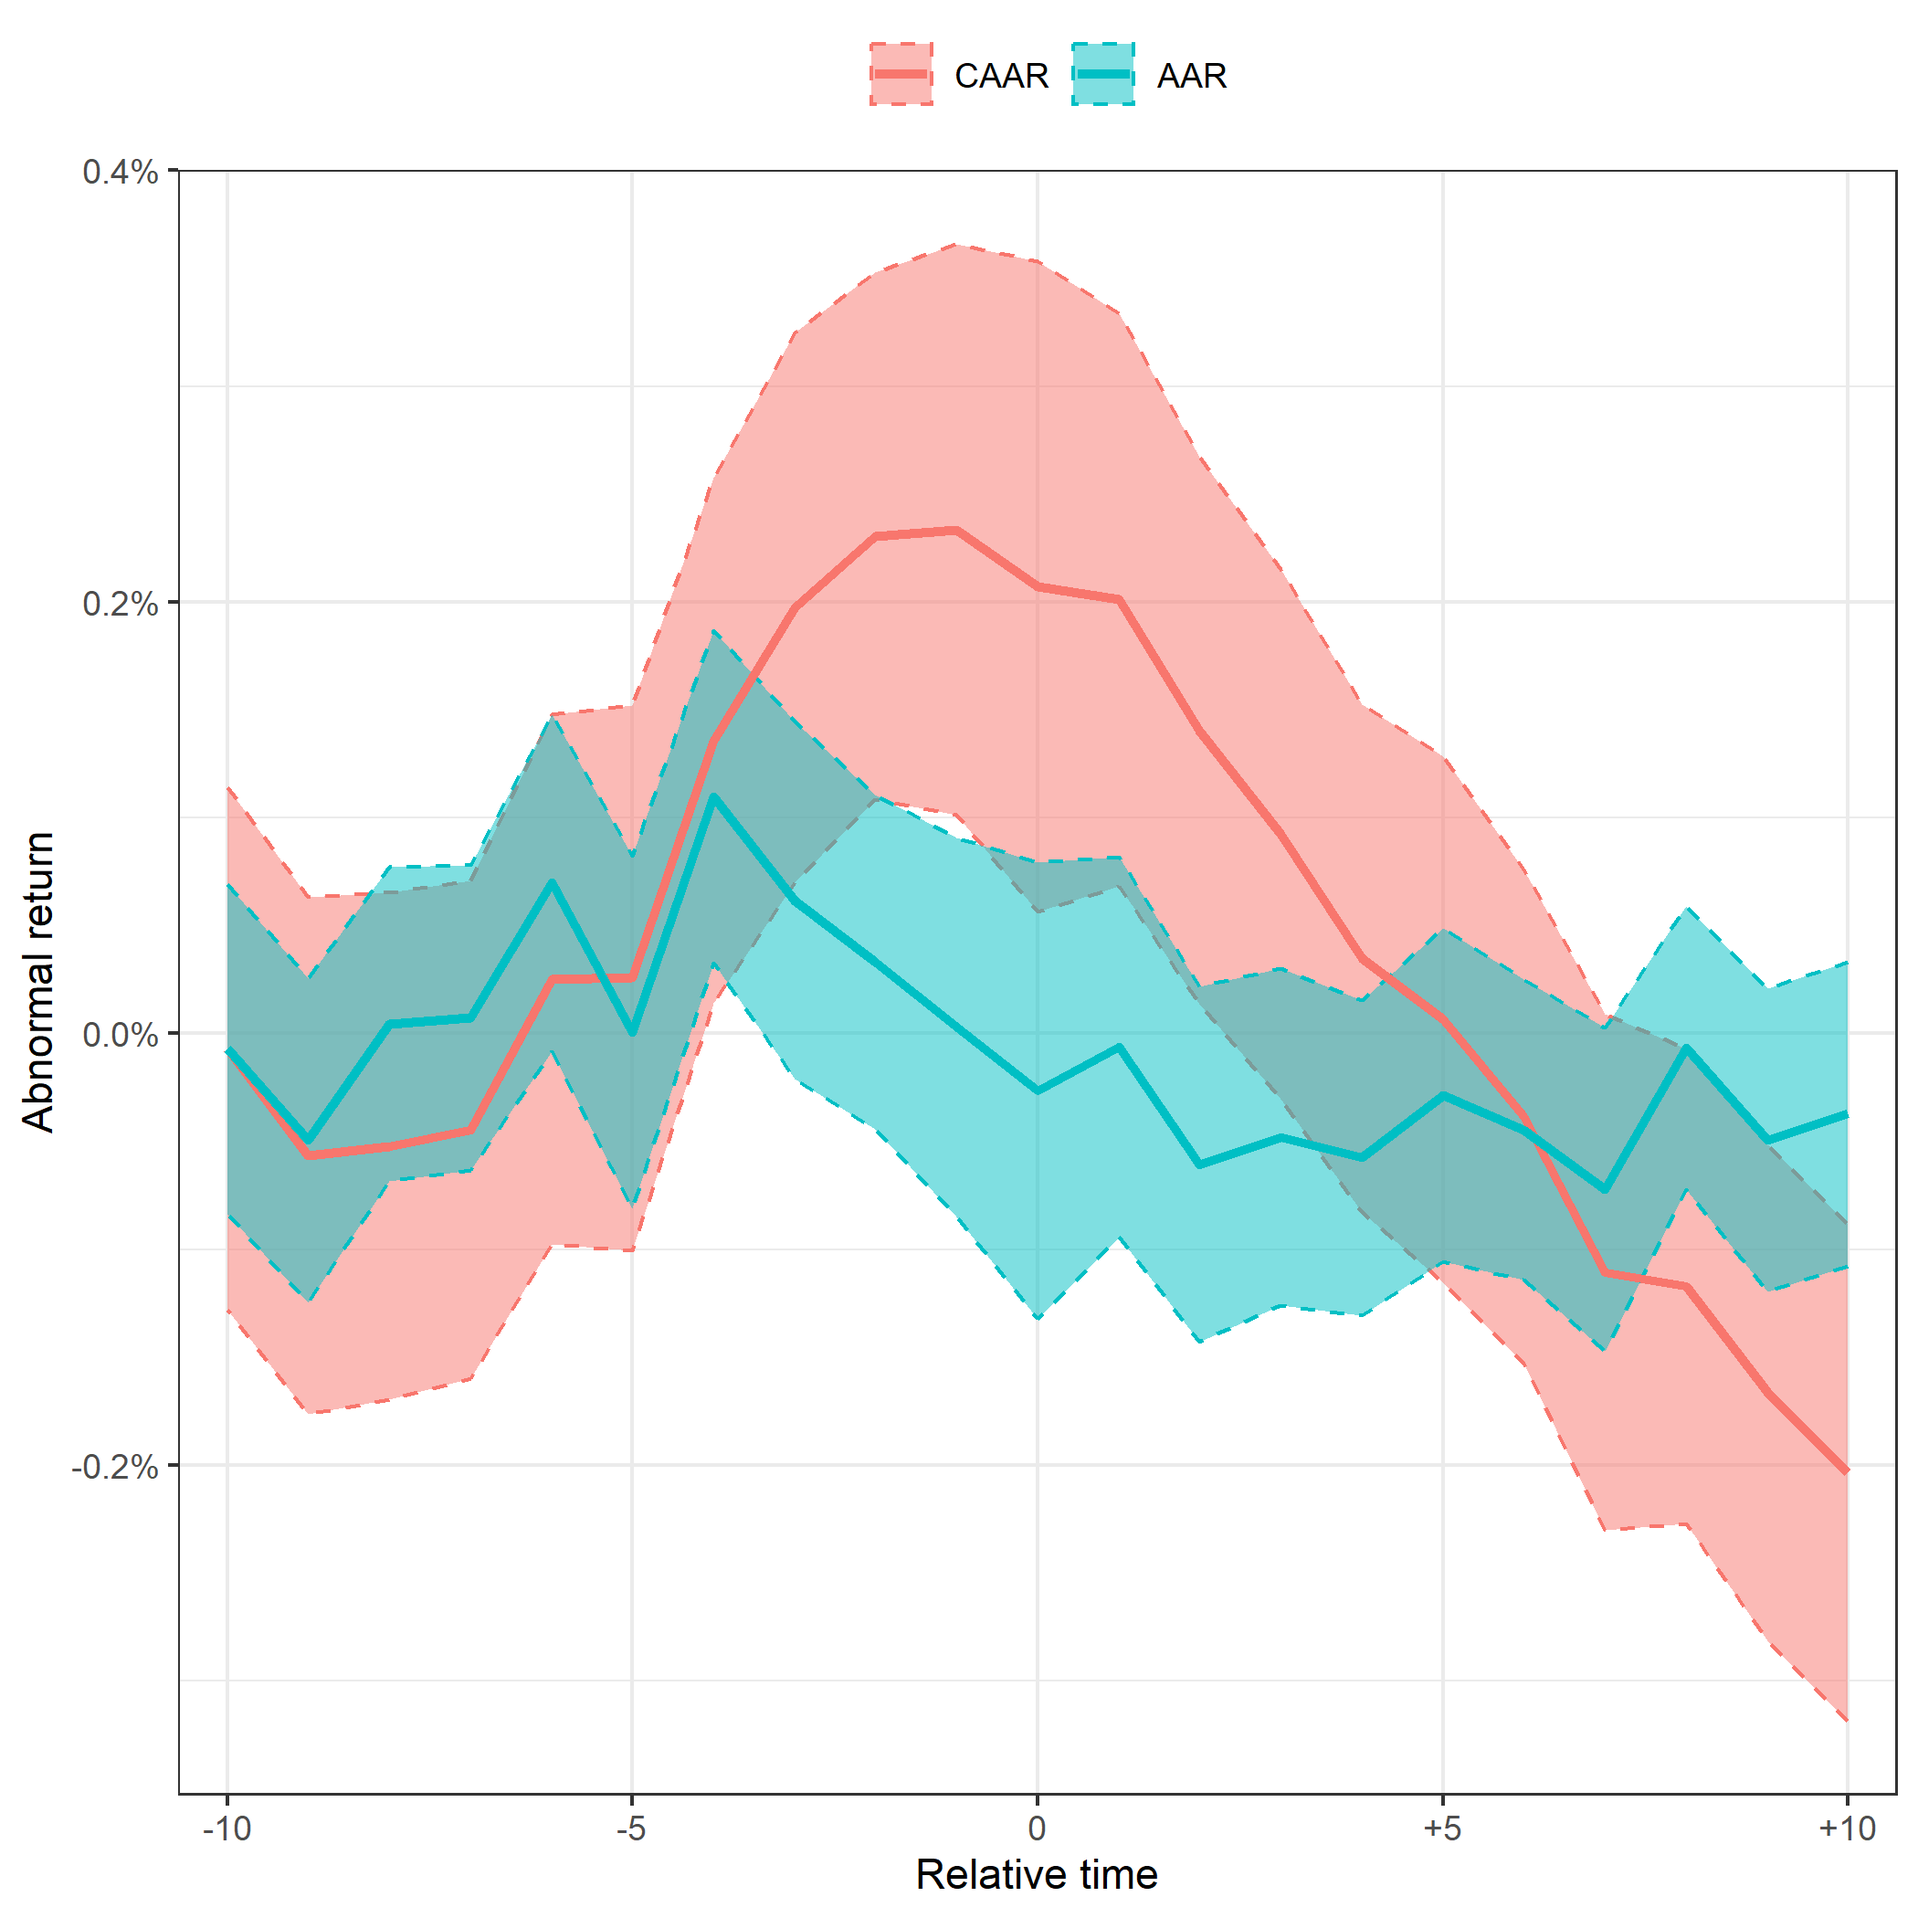
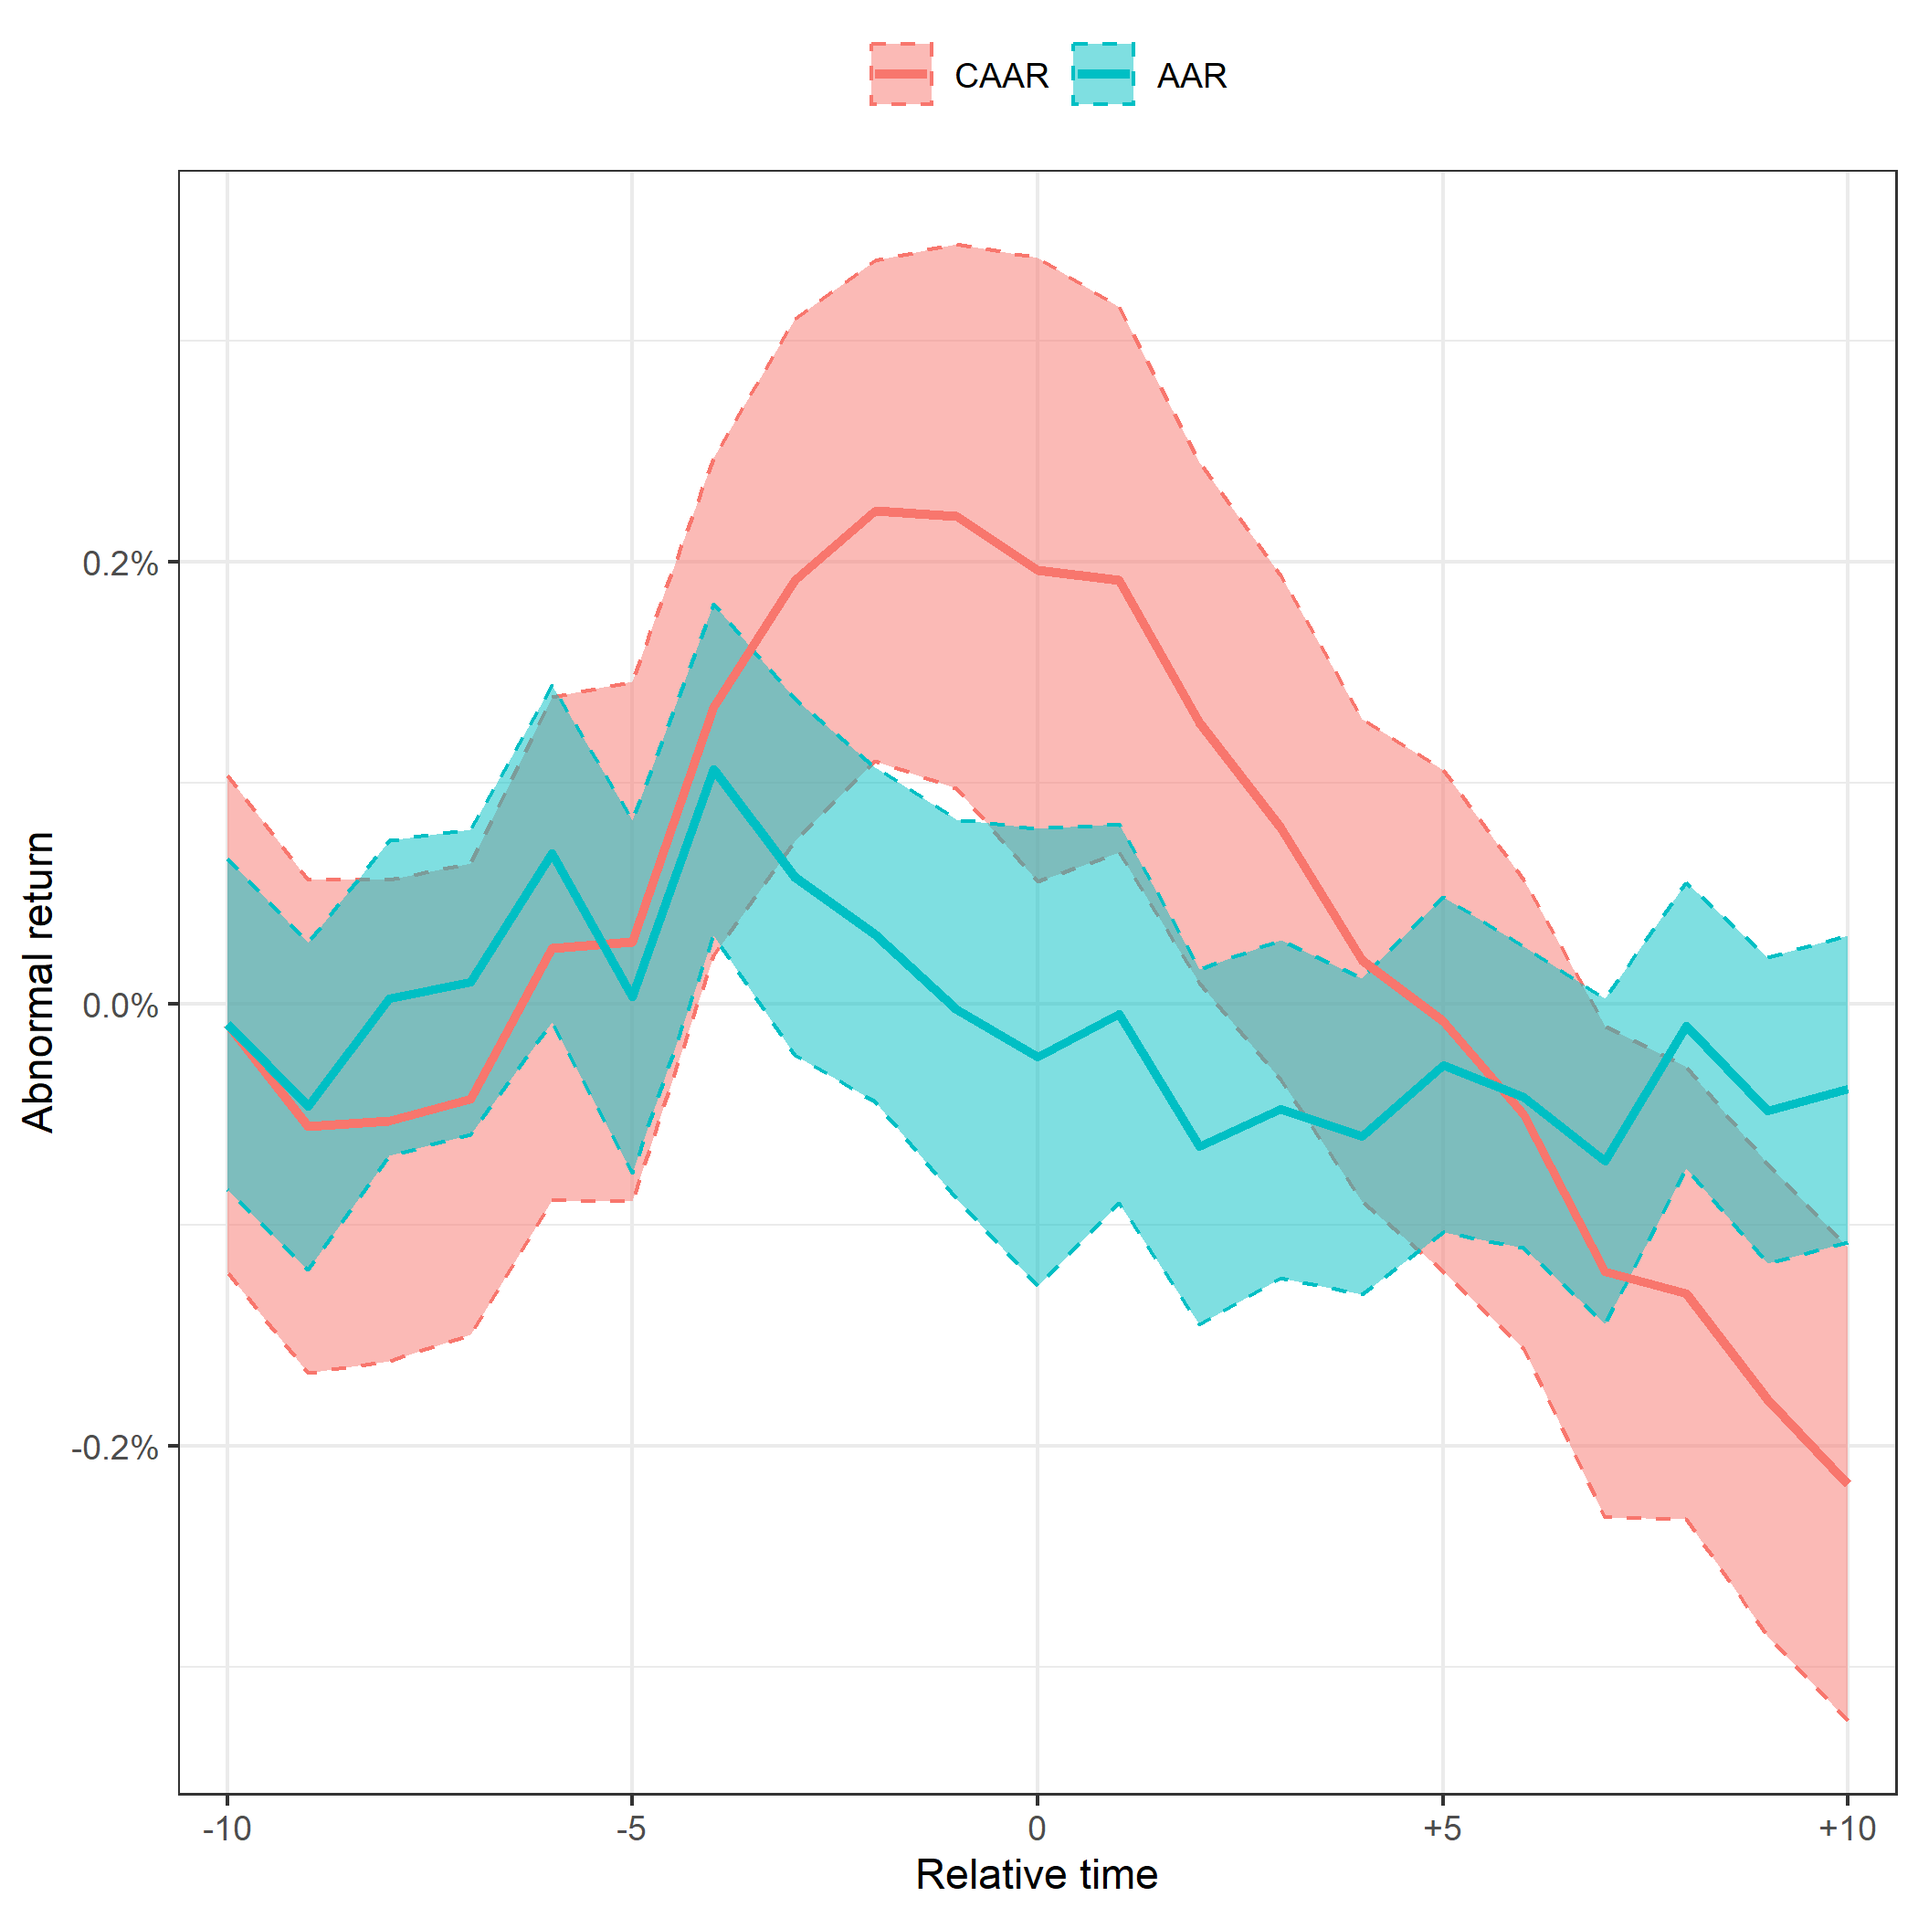
Keeping outliers

diff --git a/Projekt/1.Figures analysis/test.tex b/Projekt/1.Figures analysis/test.tex
@@ -1,5 +1,5 @@
 % latex table generated in R 4.2.2 by xtable 1.8-4 package
-% Thu Mar  9 16:12:21 2023
+% Thu Mar  9 16:53:50 2023
 \begin{table}[ht]
 \centering
 \begin{tabular}{lrrrr}
@@ -7,27 +7,27 @@
    & \multicolumn{2}{c}{Positive news} & \multicolumn{2}{c}{Negative news}  \\
   Time & AAR & CAAR & AAR & CAAR \\
  \hline
--10 & -0.0150 & -0.0150 & -0.0292 & -0.0292 \\ 
-  -9 & -0.0462 & -0.0612 & 0.0333 & 0.0041 \\ 
-  -8 & 0.0081 & -0.0531 & 0.0548 & 0.0590 \\ 
-  -7 & 0.0097 & -0.0434 & 0.0179 & 0.0769 \\ 
-  -6 & 0.0504 & 0.0070 & -0.0061 & 0.0708 \\ 
-  -5 & 0.0001 & 0.0071 & 0.0169 & 0.0877 \\ 
-  -4 & 0.0852 & 0.0923 & -0.0707 & 0.0170 \\ 
-  -3 & 0.0330 & 0.1252 & -0.0635 & -0.0465 \\ 
-  -2 & 0.0036 & 0.1289 & -0.1559 & -0.2024 \\ 
-  -1 & -0.0081 & 0.1207 & -0.1506 & -0.3529 \\ 
-  0 & -0.0011 & 0.1196 & -0.2019 & -0.5548 \\ 
-  +1 & -0.0097 & 0.1100 & -0.0033 & -0.5581 \\ 
-  +2 & -0.0450 & 0.0650 & -0.0375 & -0.5956 \\ 
-  +3 & -0.0493 & 0.0157 & 0.0799 & -0.5157 \\ 
-  +4 & -0.0627 & -0.0470 & 0.0002 & -0.5155 \\ 
-  +5 & -0.0360 & -0.0830 & -0.0289 & -0.5443 \\ 
-  +6 & -0.0403 & -0.1233 & 0.0374 & -0.5069 \\ 
-  +7 & -0.0585 & -0.1819 & 0.0045 & -0.5024 \\ 
-  +8 & -0.0149 & -0.1968 & 0.0252 & -0.4772 \\ 
-  +9 & -0.0393 & -0.2361 & -0.0124 & -0.4896 \\ 
-  +10 & -0.0452 & -0.2812 & 0.0305 & -0.4591 \\ 
+-10 & -0.0091 & -0.0091 & -0.0539 & -0.0539 \\ 
+  -9 & -0.0462 & -0.0553 & 0.0196 & -0.0343 \\ 
+  -8 & 0.0026 & -0.0528 & 0.0267 & -0.0077 \\ 
+  -7 & 0.0098 & -0.0429 & -0.0042 & -0.0118 \\ 
+  -6 & 0.0680 & 0.0251 & -0.0082 & -0.0200 \\ 
+  -5 & 0.0032 & 0.0282 & 0.0052 & -0.0148 \\ 
+  -4 & 0.1060 & 0.1342 & -0.0910 & -0.1059 \\ 
+  -3 & 0.0574 & 0.1916 & -0.0930 & -0.1989 \\ 
+  -2 & 0.0313 & 0.2229 & -0.2364 & -0.4353 \\ 
+  -1 & -0.0024 & 0.2205 & -0.2184 & -0.6536 \\ 
+  0 & -0.0242 & 0.1963 & -0.3604 & -1.0141 \\ 
+  +1 & -0.0046 & 0.1918 & -0.0833 & -1.0974 \\ 
+  +2 & -0.0646 & 0.1272 & -0.0232 & -1.1207 \\ 
+  +3 & -0.0474 & 0.0797 & 0.1148 & -1.0059 \\ 
+  +4 & -0.0599 & 0.0198 & 0.0313 & -0.9745 \\ 
+  +5 & -0.0275 & -0.0077 & -0.0087 & -0.9833 \\ 
+  +6 & -0.0422 & -0.0499 & 0.0385 & -0.9448 \\ 
+  +7 & -0.0712 & -0.1210 & 0.0200 & -0.9248 \\ 
+  +8 & -0.0098 & -0.1308 & 0.0261 & -0.8987 \\ 
+  +9 & -0.0482 & -0.1790 & -0.0191 & -0.9178 \\ 
+  +10 & -0.0384 & -0.2175 & 0.0185 & -0.8993 \\ 
    \hline
 \end{tabular}
 \caption{AAR and CAAR over event window (in percentage)} 
